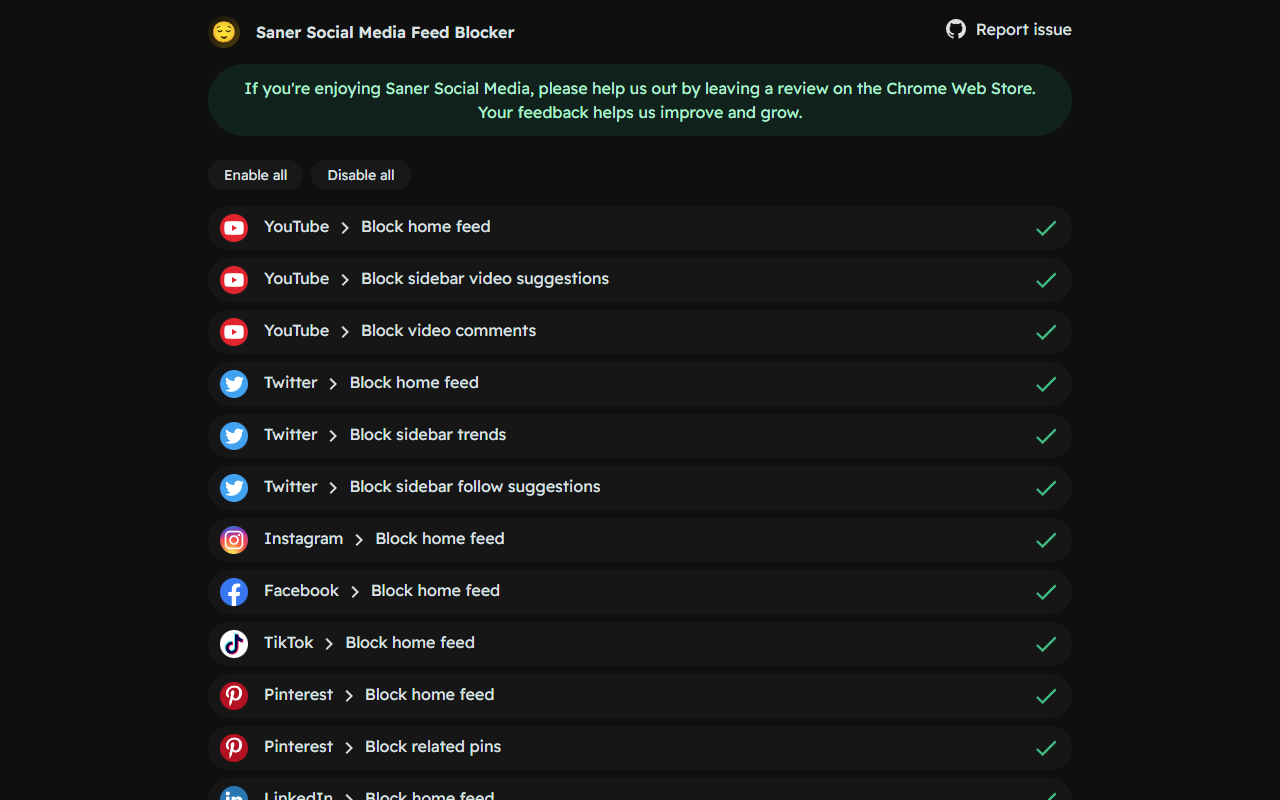
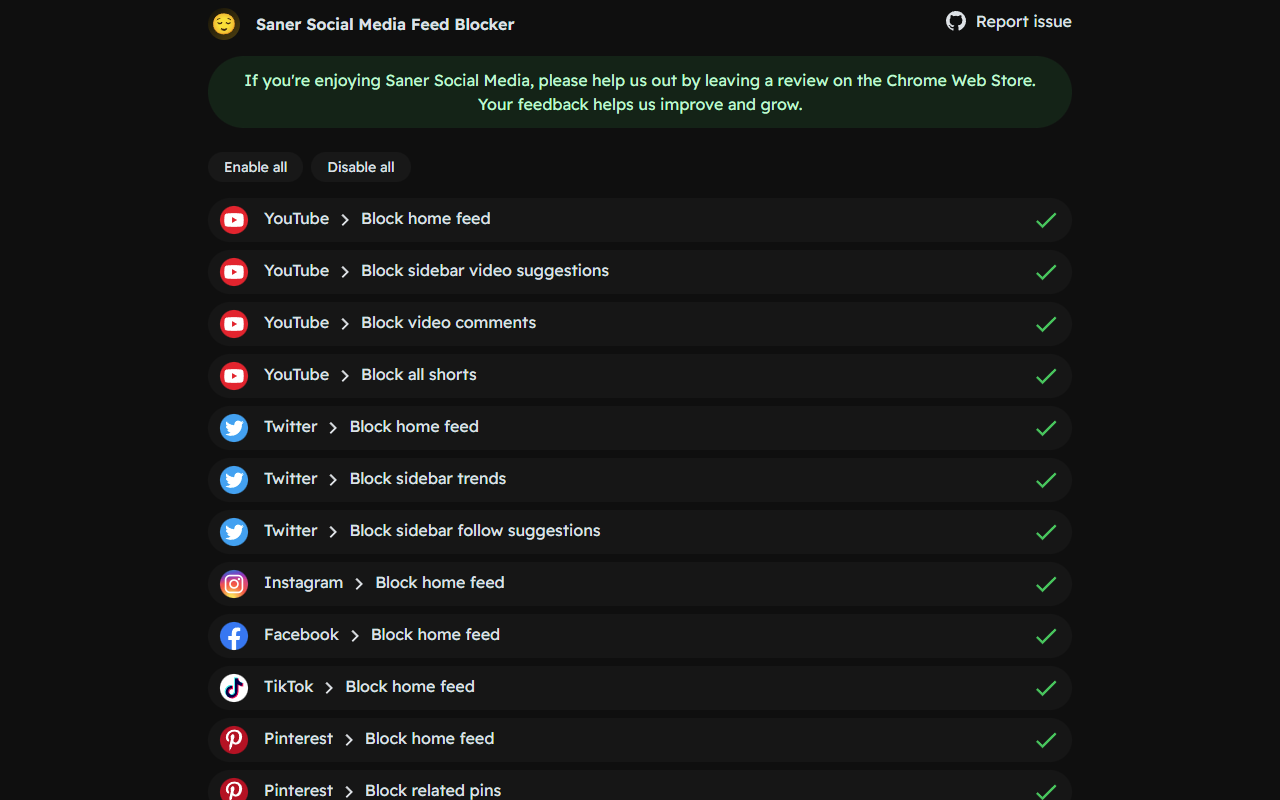
update readme

diff --git a/README.md b/README.md
@@ -13,18 +13,18 @@ Block social media distractions and replace them with uplifting quotes to improv
 
 ## Supported sites
 
-| Site          | Blocked distractions                                  |
-| :------------ | :---------------------------------------------------- |
-| **YouTube**   | Home feed, sidebar video suggestions, video comments  |
-| **Twitter**   | Home feed, sidebar trends, sidebar follow suggestions |
-| **Instagram** | Home feed                                             |
-| **Facebook**  | Home feed                                             |
-| **TikTok**    | Home feed                                             |
-| **Pinterest** | Home feed, related pins                               |
-| **LinkedIn**  | Home feed, sidebar trends                             |
-| **Twitch**    | Home feed                                             |
-| **Reddit**    | Home feed, subreddit feeds                            |
-| **GitHub**    | Home feed                                             |
+| Site          | Blocked distractions                                         |
+| :------------ | :----------------------------------------------------------- |
+| **YouTube**   | Home feed, sidebar video suggestions, video comments, shorts |
+| **Twitter**   | Home feed, sidebar trends, sidebar follow suggestions        |
+| **Instagram** | Home feed                                                    |
+| **Facebook**  | Home feed                                                    |
+| **TikTok**    | Home feed                                                    |
+| **Pinterest** | Home feed, related pins                                      |
+| **LinkedIn**  | Home feed, sidebar trends                                    |
+| **Twitch**    | Home feed                                                    |
+| **Reddit**    | Home feed, subreddit feeds                                   |
+| **GitHub**    | Home feed                                                    |
 
 ## Other features
 
